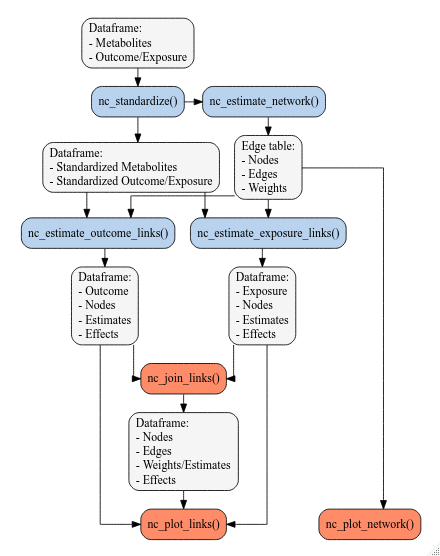
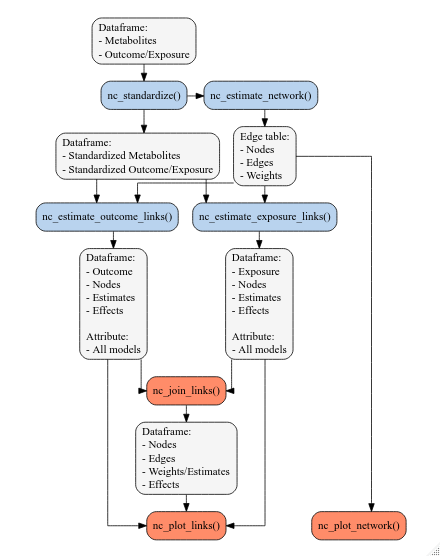
Built site for NetCoupler: 0.0.4.9000@77cd141

Changed region(s): [[0.0295, 0.0306, 0.8568, 0.9784], [0.7091, 0.8867, 0.975, 0.9784], [0.4727, 0.2446, 0.5023, 0.2752]]

diff --git a/articles/NetCoupler.html b/articles/NetCoupler.html
@@ -191,38 +191,21 @@
         model_function <span class="op">=</span> <span class="va">lm</span>
     <span class="op">)</span>
 <span class="va">outcome_estimates</span>
-<span class="co">#&gt; $full_model_list</span>
-<span class="co">#&gt; <span style="color: #949494;"># A tibble: 301 × 9</span></span>
-<span class="co">#&gt;    outcome       index_node model_id term  estimate std_error statistic  p_value</span>
-<span class="co">#&gt;    <span style="color: #949494; font-style: italic;">&lt;chr&gt;</span>         <span style="color: #949494; font-style: italic;">&lt;chr&gt;</span>      <span style="color: #949494; font-style: italic;">&lt;chr&gt;</span>    <span style="color: #949494; font-style: italic;">&lt;chr&gt;</span>    <span style="color: #949494; font-style: italic;">&lt;dbl&gt;</span>     <span style="color: #949494; font-style: italic;">&lt;dbl&gt;</span>     <span style="color: #949494; font-style: italic;">&lt;dbl&gt;</span>    <span style="color: #949494; font-style: italic;">&lt;dbl&gt;</span></span>
-<span class="co">#&gt; <span style="color: #BCBCBC;"> 1</span> outcome_cont… metabolit… 42e63fc… (Int… -<span style="color: #BB0000;">0.018</span><span style="color: #BB0000; text-decoration: underline;">5</span>     0.025<span style="text-decoration: underline;">0</span>    -<span style="color: #BB0000;">0.738</span> 4.61<span style="color: #949494;">e</span><span style="color: #BB0000;">- 1</span></span>
-<span class="co">#&gt; <span style="color: #BCBCBC;"> 2</span> outcome_cont… metabolit… 42e63fc… meta…  0.066<span style="text-decoration: underline;">2</span>     0.025<span style="text-decoration: underline;">8</span>     2.57  1.03<span style="color: #949494;">e</span><span style="color: #BB0000;">- 2</span></span>
-<span class="co">#&gt; <span style="color: #BCBCBC;"> 3</span> outcome_cont… metabolit… 42e63fc… meta… -<span style="color: #BB0000;">0.049</span><span style="color: #BB0000; text-decoration: underline;">4</span>     0.025<span style="text-decoration: underline;">8</span>    -<span style="color: #BB0000;">1.92</span>  5.54<span style="color: #949494;">e</span><span style="color: #BB0000;">- 2</span></span>
-<span class="co">#&gt; <span style="color: #BCBCBC;"> 4</span> outcome_cont… metabolit… 84366fe… (Int… -<span style="color: #BB0000;">0.018</span><span style="color: #BB0000; text-decoration: underline;">5</span>     0.023<span style="text-decoration: underline;">8</span>    -<span style="color: #BB0000;">0.777</span> 4.37<span style="color: #949494;">e</span><span style="color: #BB0000;">- 1</span></span>
-<span class="co">#&gt; <span style="color: #BCBCBC;"> 5</span> outcome_cont… metabolit… 84366fe… meta… -<span style="color: #BB0000;">0.019</span><span style="color: #BB0000; text-decoration: underline;">8</span>     0.024<span style="text-decoration: underline;">3</span>    -<span style="color: #BB0000;">0.814</span> 4.16<span style="color: #949494;">e</span><span style="color: #BB0000;">- 1</span></span>
-<span class="co">#&gt; <span style="color: #BCBCBC;"> 6</span> outcome_cont… metabolit… 84366fe… meta…  0.364      0.024<span style="text-decoration: underline;">3</span>    15.0   3.50<span style="color: #949494;">e</span><span style="color: #BB0000;">-48</span></span>
-<span class="co">#&gt; <span style="color: #BCBCBC;"> 7</span> outcome_cont… metabolit… 9bc6200… (Int… -<span style="color: #BB0000;">0.018</span><span style="color: #BB0000; text-decoration: underline;">5</span>     0.023<span style="text-decoration: underline;">7</span>    -<span style="color: #BB0000;">0.778</span> 4.37<span style="color: #949494;">e</span><span style="color: #BB0000;">- 1</span></span>
-<span class="co">#&gt; <span style="color: #BCBCBC;"> 8</span> outcome_cont… metabolit… 9bc6200… meta… -<span style="color: #BB0000;">0.005</span><span style="color: #BB0000; text-decoration: underline;">62</span>    0.024<span style="text-decoration: underline;">9</span>    -<span style="color: #BB0000;">0.226</span> 8.21<span style="color: #949494;">e</span><span style="color: #BB0000;">- 1</span></span>
-<span class="co">#&gt; <span style="color: #BCBCBC;"> 9</span> outcome_cont… metabolit… 9bc6200… meta…  0.365      0.024<span style="text-decoration: underline;">2</span>    15.1   1.10<span style="color: #949494;">e</span><span style="color: #BB0000;">-48</span></span>
-<span class="co">#&gt; <span style="color: #BCBCBC;">10</span> outcome_cont… metabolit… 9bc6200… meta… -<span style="color: #BB0000;">0.060</span><span style="color: #BB0000; text-decoration: underline;">4</span>     0.024<span style="text-decoration: underline;">5</span>    -<span style="color: #BB0000;">2.47</span>  1.37<span style="color: #949494;">e</span><span style="color: #BB0000;">- 2</span></span>
-<span class="co">#&gt; <span style="color: #949494;"># … with 291 more rows, and 1 more variable: adjusted_vars &lt;chr&gt;</span></span>
-<span class="co">#&gt; </span>
-<span class="co">#&gt; $classified_effects</span>
-<span class="co">#&gt; <span style="color: #949494;"># A tibble: 12 × 7</span></span>
-<span class="co">#&gt;    outcome            index_node   estimate std_error p_value adj_p_value effect</span>
-<span class="co">#&gt;    <span style="color: #949494; font-style: italic;">&lt;chr&gt;</span>              <span style="color: #949494; font-style: italic;">&lt;chr&gt;</span>           <span style="color: #949494; font-style: italic;">&lt;dbl&gt;</span>     <span style="color: #949494; font-style: italic;">&lt;dbl&gt;</span>   <span style="color: #949494; font-style: italic;">&lt;dbl&gt;</span>       <span style="color: #949494; font-style: italic;">&lt;dbl&gt;</span> <span style="color: #949494; font-style: italic;">&lt;chr&gt;</span> </span>
-<span class="co">#&gt; <span style="color: #BCBCBC;"> 1</span> outcome_continuous metabolite_1  0.054<span style="text-decoration: underline;">3</span>     0.025<span style="text-decoration: underline;">1</span> 3.02<span style="color: #949494;">e</span><span style="color: #BB0000;">-2</span>    0.057<span style="text-decoration: underline;">7</span>   ambig…</span>
-<span class="co">#&gt; <span style="color: #BCBCBC;"> 2</span> outcome_continuous metabolite_…  0.096<span style="text-decoration: underline;">5</span>     0.025<span style="text-decoration: underline;">0</span> 1.17<span style="color: #949494;">e</span><span style="color: #BB0000;">-4</span>    0.000<span style="text-decoration: underline;">296</span> ambig…</span>
-<span class="co">#&gt; <span style="color: #BCBCBC;"> 3</span> outcome_continuous metabolite_… -<span style="color: #BB0000;">0.007</span><span style="color: #BB0000; text-decoration: underline;">64</span>    0.025<span style="text-decoration: underline;">1</span> 7.61<span style="color: #949494;">e</span><span style="color: #BB0000;">-1</span>    0.861    none  </span>
-<span class="co">#&gt; <span style="color: #BCBCBC;"> 4</span> outcome_continuous metabolite_…  0.360      0.023<span style="text-decoration: underline;">8</span> 0   <span style="color: #949494;"> </span>      0        direct</span>
-<span class="co">#&gt; <span style="color: #BCBCBC;"> 5</span> outcome_continuous metabolite_2 -<span style="color: #BB0000;">0.033</span><span style="color: #BB0000; text-decoration: underline;">5</span>     0.025<span style="text-decoration: underline;">1</span> 1.81<span style="color: #949494;">e</span><span style="color: #BB0000;">-1</span>    0.260    ambig…</span>
-<span class="co">#&gt; <span style="color: #BCBCBC;"> 6</span> outcome_continuous metabolite_3 -<span style="color: #BB0000;">0.144</span>      0.024<span style="text-decoration: underline;">9</span> 0   <span style="color: #949494;"> </span>      0        direct</span>
-<span class="co">#&gt; <span style="color: #BCBCBC;"> 7</span> outcome_continuous metabolite_4  0.024<span style="text-decoration: underline;">4</span>     0.025<span style="text-decoration: underline;">1</span> 3.31<span style="color: #949494;">e</span><span style="color: #BB0000;">-1</span>    0.452    ambig…</span>
-<span class="co">#&gt; <span style="color: #BCBCBC;"> 8</span> outcome_continuous metabolite_5  0.029<span style="text-decoration: underline;">6</span>     0.025<span style="text-decoration: underline;">1</span> 2.38<span style="color: #949494;">e</span><span style="color: #BB0000;">-1</span>    0.330    none  </span>
-<span class="co">#&gt; <span style="color: #BCBCBC;"> 9</span> outcome_continuous metabolite_6  0.056<span style="text-decoration: underline;">0</span>     0.025<span style="text-decoration: underline;">0</span> 2.55<span style="color: #949494;">e</span><span style="color: #BB0000;">-2</span>    0.049<span style="text-decoration: underline;">8</span>   ambig…</span>
-<span class="co">#&gt; <span style="color: #BCBCBC;">10</span> outcome_continuous metabolite_7  0.002<span style="text-decoration: underline;">68</span>    0.025<span style="text-decoration: underline;">1</span> 9.15<span style="color: #949494;">e</span><span style="color: #BB0000;">-1</span>    0.937    none  </span>
-<span class="co">#&gt; <span style="color: #BCBCBC;">11</span> outcome_continuous metabolite_8  0.056<span style="text-decoration: underline;">7</span>     0.025<span style="text-decoration: underline;">0</span> 2.38<span style="color: #949494;">e</span><span style="color: #BB0000;">-2</span>    0.047<span style="text-decoration: underline;">6</span>   ambig…</span>
-<span class="co">#&gt; <span style="color: #BCBCBC;">12</span> outcome_continuous metabolite_9  0.212      0.024<span style="text-decoration: underline;">6</span> 0   <span style="color: #949494;"> </span>      0        direct</span>
+<span class="co">#&gt; <span style="color: #949494;"># A tibble: 12 × 6</span></span>
+<span class="co">#&gt;    outcome            index_node    estimate std_error fdr_p_value effect   </span>
+<span class="co">#&gt;  <span style="color: #BCBCBC;">*</span> <span style="color: #949494; font-style: italic;">&lt;chr&gt;</span>              <span style="color: #949494; font-style: italic;">&lt;chr&gt;</span>            <span style="color: #949494; font-style: italic;">&lt;dbl&gt;</span>     <span style="color: #949494; font-style: italic;">&lt;dbl&gt;</span>       <span style="color: #949494; font-style: italic;">&lt;dbl&gt;</span> <span style="color: #949494; font-style: italic;">&lt;chr&gt;</span>    </span>
+<span class="co">#&gt; <span style="color: #BCBCBC;"> 1</span> outcome_continuous metabolite_1   0.054<span style="text-decoration: underline;">3</span>     0.025<span style="text-decoration: underline;">1</span>    0.057<span style="text-decoration: underline;">7</span>   ambiguous</span>
+<span class="co">#&gt; <span style="color: #BCBCBC;"> 2</span> outcome_continuous metabolite_10  0.096<span style="text-decoration: underline;">5</span>     0.025<span style="text-decoration: underline;">0</span>    0.000<span style="text-decoration: underline;">296</span> ambiguous</span>
+<span class="co">#&gt; <span style="color: #BCBCBC;"> 3</span> outcome_continuous metabolite_11 -<span style="color: #BB0000;">0.007</span><span style="color: #BB0000; text-decoration: underline;">64</span>    0.025<span style="text-decoration: underline;">1</span>    0.861    none     </span>
+<span class="co">#&gt; <span style="color: #BCBCBC;"> 4</span> outcome_continuous metabolite_12  0.360      0.023<span style="text-decoration: underline;">8</span>    0        direct   </span>
+<span class="co">#&gt; <span style="color: #BCBCBC;"> 5</span> outcome_continuous metabolite_2  -<span style="color: #BB0000;">0.033</span><span style="color: #BB0000; text-decoration: underline;">5</span>     0.025<span style="text-decoration: underline;">1</span>    0.260    ambiguous</span>
+<span class="co">#&gt; <span style="color: #BCBCBC;"> 6</span> outcome_continuous metabolite_3  -<span style="color: #BB0000;">0.144</span>      0.024<span style="text-decoration: underline;">9</span>    0        direct   </span>
+<span class="co">#&gt; <span style="color: #BCBCBC;"> 7</span> outcome_continuous metabolite_4   0.024<span style="text-decoration: underline;">4</span>     0.025<span style="text-decoration: underline;">1</span>    0.452    ambiguous</span>
+<span class="co">#&gt; <span style="color: #BCBCBC;"> 8</span> outcome_continuous metabolite_5   0.029<span style="text-decoration: underline;">6</span>     0.025<span style="text-decoration: underline;">1</span>    0.330    none     </span>
+<span class="co">#&gt; <span style="color: #BCBCBC;"> 9</span> outcome_continuous metabolite_6   0.056<span style="text-decoration: underline;">0</span>     0.025<span style="text-decoration: underline;">0</span>    0.049<span style="text-decoration: underline;">8</span>   ambiguous</span>
+<span class="co">#&gt; <span style="color: #BCBCBC;">10</span> outcome_continuous metabolite_7   0.002<span style="text-decoration: underline;">68</span>    0.025<span style="text-decoration: underline;">1</span>    0.937    none     </span>
+<span class="co">#&gt; <span style="color: #BCBCBC;">11</span> outcome_continuous metabolite_8   0.056<span style="text-decoration: underline;">7</span>     0.025<span style="text-decoration: underline;">0</span>    0.047<span style="text-decoration: underline;">6</span>   ambiguous</span>
+<span class="co">#&gt; <span style="color: #BCBCBC;">12</span> outcome_continuous metabolite_9   0.212      0.024<span style="text-decoration: underline;">6</span>    0        direct</span>
 
 <span class="va">exposure_estimates</span> <span class="op">&lt;-</span> <span class="va">standardized_data</span> <span class="op"><a href="../reference/pipe.html">%&gt;%</a></span>
     <span class="fu"><a href="../reference/nc_estimate_links.html">nc_estimate_exposure_links</a></span><span class="op">(</span>
@@ -231,38 +214,21 @@
         model_function <span class="op">=</span> <span class="va">lm</span>
     <span class="op">)</span>
 <span class="va">exposure_estimates</span>
-<span class="co">#&gt; $full_model_list</span>
-<span class="co">#&gt; <span style="color: #949494;"># A tibble: 301 × 9</span></span>
-<span class="co">#&gt;    exposure index_node   model_id    term  estimate std_error statistic  p_value</span>
-<span class="co">#&gt;    <span style="color: #949494; font-style: italic;">&lt;chr&gt;</span>    <span style="color: #949494; font-style: italic;">&lt;chr&gt;</span>        <span style="color: #949494; font-style: italic;">&lt;chr&gt;</span>       <span style="color: #949494; font-style: italic;">&lt;chr&gt;</span>    <span style="color: #949494; font-style: italic;">&lt;dbl&gt;</span>     <span style="color: #949494; font-style: italic;">&lt;dbl&gt;</span>     <span style="color: #949494; font-style: italic;">&lt;dbl&gt;</span>    <span style="color: #949494; font-style: italic;">&lt;dbl&gt;</span></span>
-<span class="co">#&gt; <span style="color: #BCBCBC;"> 1</span> exposure metabolite_1 d54d16e09e… (Int… 0.000<span style="text-decoration: underline;">360</span>    0.021<span style="text-decoration: underline;">4</span>    0.016<span style="text-decoration: underline;">8</span> 9.87<span style="color: #949494;">e</span><span style="color: #BB0000;">- 1</span></span>
-<span class="co">#&gt; <span style="color: #BCBCBC;"> 2</span> exposure metabolite_1 d54d16e09e… expo… 0.180       0.021<span style="text-decoration: underline;">8</span>    8.26   2.71<span style="color: #949494;">e</span><span style="color: #BB0000;">-16</span></span>
-<span class="co">#&gt; <span style="color: #BCBCBC;"> 3</span> exposure metabolite_1 d54d16e09e… meta… 0.242       0.021<span style="text-decoration: underline;">4</span>   11.3    8.56<span style="color: #949494;">e</span><span style="color: #BB0000;">-29</span></span>
-<span class="co">#&gt; <span style="color: #BCBCBC;"> 4</span> exposure metabolite_1 3e7b561192… (Int… 0.000<span style="text-decoration: underline;">358</span>    0.021<span style="text-decoration: underline;">5</span>    0.016<span style="text-decoration: underline;">6</span> 9.87<span style="color: #949494;">e</span><span style="color: #BB0000;">- 1</span></span>
-<span class="co">#&gt; <span style="color: #BCBCBC;"> 5</span> exposure metabolite_1 3e7b561192… expo… 0.179       0.022<span style="text-decoration: underline;">0</span>    8.16   6.07<span style="color: #949494;">e</span><span style="color: #BB0000;">-16</span></span>
-<span class="co">#&gt; <span style="color: #BCBCBC;"> 6</span> exposure metabolite_1 3e7b561192… meta… 0.205       0.021<span style="text-decoration: underline;">6</span>    9.51   5.39<span style="color: #949494;">e</span><span style="color: #BB0000;">-21</span></span>
-<span class="co">#&gt; <span style="color: #BCBCBC;"> 7</span> exposure metabolite_1 275c2363be… (Int… 0.000<span style="text-decoration: underline;">362</span>    0.020<span style="text-decoration: underline;">9</span>    0.017<span style="text-decoration: underline;">3</span> 9.86<span style="color: #949494;">e</span><span style="color: #BB0000;">- 1</span></span>
-<span class="co">#&gt; <span style="color: #BCBCBC;"> 8</span> exposure metabolite_1 275c2363be… expo… 0.181       0.021<span style="text-decoration: underline;">4</span>    8.47   4.79<span style="color: #949494;">e</span><span style="color: #BB0000;">-17</span></span>
-<span class="co">#&gt; <span style="color: #BCBCBC;"> 9</span> exposure metabolite_1 275c2363be… meta… 0.187       0.021<span style="text-decoration: underline;">0</span>    8.92   1.06<span style="color: #949494;">e</span><span style="color: #BB0000;">-18</span></span>
-<span class="co">#&gt; <span style="color: #BCBCBC;">10</span> exposure metabolite_1 275c2363be… meta… 0.227       0.021<span style="text-decoration: underline;">0</span>   10.8    1.66<span style="color: #949494;">e</span><span style="color: #BB0000;">-26</span></span>
-<span class="co">#&gt; <span style="color: #949494;"># … with 291 more rows, and 1 more variable: adjusted_vars &lt;chr&gt;</span></span>
-<span class="co">#&gt; </span>
-<span class="co">#&gt; $classified_effects</span>
-<span class="co">#&gt; <span style="color: #949494;"># A tibble: 12 × 7</span></span>
-<span class="co">#&gt;    exposure index_node    estimate std_error  p_value adj_p_value effect   </span>
-<span class="co">#&gt;    <span style="color: #949494; font-style: italic;">&lt;chr&gt;</span>    <span style="color: #949494; font-style: italic;">&lt;chr&gt;</span>            <span style="color: #949494; font-style: italic;">&lt;dbl&gt;</span>     <span style="color: #949494; font-style: italic;">&lt;dbl&gt;</span>    <span style="color: #949494; font-style: italic;">&lt;dbl&gt;</span>       <span style="color: #949494; font-style: italic;">&lt;dbl&gt;</span> <span style="color: #949494; font-style: italic;">&lt;chr&gt;</span>    </span>
-<span class="co">#&gt; <span style="color: #BCBCBC;"> 1</span> exposure metabolite_1   0.178      0.022<span style="text-decoration: underline;">5</span> 0          0         direct   </span>
-<span class="co">#&gt; <span style="color: #BCBCBC;"> 2</span> exposure metabolite_10  0.298      0.021<span style="text-decoration: underline;">8</span> 0          0         direct   </span>
-<span class="co">#&gt; <span style="color: #BCBCBC;"> 3</span> exposure metabolite_11 -<span style="color: #BB0000;">0.022</span><span style="color: #BB0000; text-decoration: underline;">6</span>     0.022<span style="text-decoration: underline;">8</span> 0.322      0.512     ambiguous</span>
-<span class="co">#&gt; <span style="color: #BCBCBC;"> 4</span> exposure metabolite_12 -<span style="color: #BB0000;">0.006</span><span style="color: #BB0000; text-decoration: underline;">41</span>    0.022<span style="text-decoration: underline;">8</span> 0.779      0.859     none     </span>
-<span class="co">#&gt; <span style="color: #BCBCBC;"> 5</span> exposure metabolite_2  -<span style="color: #BB0000;">0.007</span><span style="color: #BB0000; text-decoration: underline;">88</span>    0.022<span style="text-decoration: underline;">8</span> 0.730      0.826     ambiguous</span>
-<span class="co">#&gt; <span style="color: #BCBCBC;"> 6</span> exposure metabolite_3   0.024<span style="text-decoration: underline;">1</span>     0.022<span style="text-decoration: underline;">8</span> 0.290      0.473     none     </span>
-<span class="co">#&gt; <span style="color: #BCBCBC;"> 7</span> exposure metabolite_4  -<span style="color: #BB0000;">0.008</span><span style="color: #BB0000; text-decoration: underline;">54</span>    0.022<span style="text-decoration: underline;">8</span> 0.708      0.826     none     </span>
-<span class="co">#&gt; <span style="color: #BCBCBC;"> 8</span> exposure metabolite_5   0.019<span style="text-decoration: underline;">1</span>     0.022<span style="text-decoration: underline;">8</span> 0.402      0.576     none     </span>
-<span class="co">#&gt; <span style="color: #BCBCBC;"> 9</span> exposure metabolite_6  -<span style="color: #BB0000;">0.015</span><span style="color: #BB0000; text-decoration: underline;">1</span>     0.022<span style="text-decoration: underline;">8</span> 0.507      0.683     none     </span>
-<span class="co">#&gt; <span style="color: #BCBCBC;">10</span> exposure metabolite_7  -<span style="color: #BB0000;">0.097</span><span style="color: #BB0000; text-decoration: underline;">6</span>     0.022<span style="text-decoration: underline;">7</span> 0.000<span style="text-decoration: underline;">018</span>   0.000<span style="text-decoration: underline;">053</span>4 ambiguous</span>
-<span class="co">#&gt; <span style="color: #BCBCBC;">11</span> exposure metabolite_8  -<span style="color: #BB0000;">0.343</span>      0.021<span style="text-decoration: underline;">5</span> 0          0         direct   </span>
-<span class="co">#&gt; <span style="color: #BCBCBC;">12</span> exposure metabolite_9   0.102      0.022<span style="text-decoration: underline;">7</span> 0.000<span style="text-decoration: underline;">007</span>   0.000<span style="text-decoration: underline;">024</span>1 ambiguous</span></code></pre></div>
+<span class="co">#&gt; <span style="color: #949494;"># A tibble: 12 × 6</span></span>
+<span class="co">#&gt;    exposure index_node    estimate std_error fdr_p_value effect   </span>
+<span class="co">#&gt;  <span style="color: #BCBCBC;">*</span> <span style="color: #949494; font-style: italic;">&lt;chr&gt;</span>    <span style="color: #949494; font-style: italic;">&lt;chr&gt;</span>            <span style="color: #949494; font-style: italic;">&lt;dbl&gt;</span>     <span style="color: #949494; font-style: italic;">&lt;dbl&gt;</span>       <span style="color: #949494; font-style: italic;">&lt;dbl&gt;</span> <span style="color: #949494; font-style: italic;">&lt;chr&gt;</span>    </span>
+<span class="co">#&gt; <span style="color: #BCBCBC;"> 1</span> exposure metabolite_1   0.178      0.022<span style="text-decoration: underline;">5</span>   0         direct   </span>
+<span class="co">#&gt; <span style="color: #BCBCBC;"> 2</span> exposure metabolite_10  0.298      0.021<span style="text-decoration: underline;">8</span>   0         direct   </span>
+<span class="co">#&gt; <span style="color: #BCBCBC;"> 3</span> exposure metabolite_11 -<span style="color: #BB0000;">0.022</span><span style="color: #BB0000; text-decoration: underline;">6</span>     0.022<span style="text-decoration: underline;">8</span>   0.512     ambiguous</span>
+<span class="co">#&gt; <span style="color: #BCBCBC;"> 4</span> exposure metabolite_12 -<span style="color: #BB0000;">0.006</span><span style="color: #BB0000; text-decoration: underline;">41</span>    0.022<span style="text-decoration: underline;">8</span>   0.859     none     </span>
+<span class="co">#&gt; <span style="color: #BCBCBC;"> 5</span> exposure metabolite_2  -<span style="color: #BB0000;">0.007</span><span style="color: #BB0000; text-decoration: underline;">88</span>    0.022<span style="text-decoration: underline;">8</span>   0.826     ambiguous</span>
+<span class="co">#&gt; <span style="color: #BCBCBC;"> 6</span> exposure metabolite_3   0.024<span style="text-decoration: underline;">1</span>     0.022<span style="text-decoration: underline;">8</span>   0.473     none     </span>
+<span class="co">#&gt; <span style="color: #BCBCBC;"> 7</span> exposure metabolite_4  -<span style="color: #BB0000;">0.008</span><span style="color: #BB0000; text-decoration: underline;">54</span>    0.022<span style="text-decoration: underline;">8</span>   0.826     none     </span>
+<span class="co">#&gt; <span style="color: #BCBCBC;"> 8</span> exposure metabolite_5   0.019<span style="text-decoration: underline;">1</span>     0.022<span style="text-decoration: underline;">8</span>   0.576     none     </span>
+<span class="co">#&gt; <span style="color: #BCBCBC;"> 9</span> exposure metabolite_6  -<span style="color: #BB0000;">0.015</span><span style="color: #BB0000; text-decoration: underline;">1</span>     0.022<span style="text-decoration: underline;">8</span>   0.683     none     </span>
+<span class="co">#&gt; <span style="color: #BCBCBC;">10</span> exposure metabolite_7  -<span style="color: #BB0000;">0.097</span><span style="color: #BB0000; text-decoration: underline;">6</span>     0.022<span style="text-decoration: underline;">7</span>   0.000<span style="text-decoration: underline;">053</span>4 ambiguous</span>
+<span class="co">#&gt; <span style="color: #BCBCBC;">11</span> exposure metabolite_8  -<span style="color: #BB0000;">0.343</span>      0.021<span style="text-decoration: underline;">5</span>   0         direct   </span>
+<span class="co">#&gt; <span style="color: #BCBCBC;">12</span> exposure metabolite_9   0.102      0.022<span style="text-decoration: underline;">7</span>   0.000<span style="text-decoration: underline;">024</span>1 ambiguous</span></code></pre></div>
 <p>If you want to adjust for confounders and have already used <code>regressed_on</code> in the <code><a href="../reference/nc_standardize.html">nc_standardize()</a></code> function, add confounders to <code><a href="../reference/nc_estimate_links.html">nc_estimate_outcome_links()</a></code> or <code><a href="../reference/nc_estimate_links.html">nc_estimate_exposure_links()</a></code> with the <code>adjustment_vars</code> argument:</p>
 <div class="sourceCode" id="cb6"><pre class="downlit sourceCode r">
 <code class="sourceCode R"><span class="va">outcome_estimates</span> <span class="op">&lt;-</span> <span class="va">standardized_data</span> <span class="op"><a href="../reference/pipe.html">%&gt;%</a></span>

diff --git a/reference/nc_estimate_links.html b/reference/nc_estimate_links.html
@@ -87,7 +87,8 @@ and a network.</h1>
   <span class="va">model_function</span>,
   model_arg_list <span class="op">=</span> <span class="cn">NULL</span>,
   exponentiate <span class="op">=</span> <span class="cn">FALSE</span>,
-  implementation <span class="op">=</span> <span class="fu"><a href="https://rdrr.io/r/base/c.html" class="external-link">c</a></span><span class="op">(</span><span class="st">"updated"</span>, <span class="st">"original"</span><span class="op">)</span>
+  classify_option_list <span class="op">=</span> <span class="fu"><a href="https://rdrr.io/r/base/list.html" class="external-link">list</a></span><span class="op">(</span>single_metabolite_threshold <span class="op">=</span> <span class="fl">0.05</span>, network_threshold <span class="op">=</span>
+    <span class="fl">0.1</span><span class="op">)</span>
 <span class="op">)</span>
 
 <span class="fu">nc_estimate_outcome_links</span><span class="op">(</span>
@@ -98,7 +99,8 @@ and a network.</h1>
   <span class="va">model_function</span>,
   model_arg_list <span class="op">=</span> <span class="cn">NULL</span>,
   exponentiate <span class="op">=</span> <span class="cn">FALSE</span>,
-  implementation <span class="op">=</span> <span class="fu"><a href="https://rdrr.io/r/base/c.html" class="external-link">c</a></span><span class="op">(</span><span class="st">"updated"</span>, <span class="st">"original"</span><span class="op">)</span>
+  classify_option_list <span class="op">=</span> <span class="fu"><a href="https://rdrr.io/r/base/list.html" class="external-link">list</a></span><span class="op">(</span>single_metabolite_threshold <span class="op">=</span> <span class="fl">0.05</span>, network_threshold <span class="op">=</span>
+    <span class="fl">0.1</span><span class="op">)</span>
 <span class="op">)</span></code></pre></div>
     </div>
 
@@ -117,7 +119,8 @@ to an edge table using <code><a href="as_edge_tbl.html">as_edge_tbl()</a></code>
 <dt>model_function</dt>
 <dd><p>A function for the model to use (e.g. <code><a href="https://rdrr.io/r/stats/lm.html" class="external-link">stats::lm()</a></code>,
 <code><a href="https://rdrr.io/r/stats/glm.html" class="external-link">stats::glm()</a></code>, survival::coxph()). Can be any model as long as the
-function has the arguments <code>formula</code> and <code>data</code>.</p></dd>
+function has the arguments <code>formula</code> and <code>data</code>. Type in the model function
+as a bare object (without <code>()</code>, for instance as <code>lm</code>).</p></dd>
 <dt>model_arg_list</dt>
 <dd><p>Optional. A list containing the named arguments that
 will be passed to the model function. A simple example would be
@@ -127,22 +130,42 @@ usage.</p></dd>
 <dt>exponentiate</dt>
 <dd><p>Logical. Whether to exponentiate the log estimates, as
 computed with e.g. logistic regression models.</p></dd>
-<dt>external_var</dt>
-<dd><p>Argument for internal function. The variable that links
-to the network variables ("external" to the network).</p></dd>
-<dt>external_side</dt>
-<dd><p>Argument for internal function. Character vector.
-Either "exposure" or "outcome", to indicate which side the external
-variable is on relative to the network.</p><ul><li><p>Exposure indicating the implied directionality is from the external
-variable to the network variable.</p></li>
-<li><p>Outcome indicating the implied directionality is from the network variable
-to the external variable.</p></li>
+<dt>classify_option_list</dt>
+<dd><p>Classification options for direct, ambigious, or none
+effects. Options currently are:</p><ul><li><p><code>single_metabolite_threshold</code>: Default of 0.05. P-values from models with
+only the index metabolite (no neighbour adjustment) are classified as effects if
+below this threshold.</p></li>
+<li><p><code>network_threshold</code>: Default of 0.1. P-values from any models that have
+direct neighbour adjustments are classified as effects if below this threshold.
+This is assumed as a one-sided p-value threshold.</p></li>
 </ul></dd>
 </dl></div>
     <div id="value">
     <h2>Value</h2>
     <p>Outputs a <a href="https://tibble.tidyverse.org/reference/tibble-package.html" class="external-link">tibble</a> that contains the model
-estimates from either the exposure or outcome side of the network.</p>
+estimates from either the exposure or outcome side of the network as well
+as the effect classification. Each row represents the "no neighbour node
+adjusted" model and has the results for the outcome/exposure to index node
+pathway.
+Columns for the outcome are:</p><ul><li><p><code>outcome</code> or <code>exposure</code>: The name of the variable used as the external variable.</p></li>
+<li><p><code>index_node</code>: The name of the metabolite used as the index node from the network.
+In combination with the outcome/exposure variable, they represent the individual
+model used for the classification.</p></li>
+<li><p><code>estimate</code>: The estimate from the outcome/exposure and index node model.</p></li>
+<li><p><code>std_error</code>: The standard error from the outcome/exposure and index node model.</p></li>
+<li><p><code>fdr_p_value</code>: The False Discovery Rate-adjusted p-value from the
+outcome/exposure and index node model.</p></li>
+<li><p><code>effect</code>: The NetCoupler classified effect between the index node and the
+outcome/exposure. Effects are classified as "direct" (there is a probable link
+based on the given thresholds), "ambigious" (there is a potential link but
+not all thresholds were passed), and "none" (no potential link seen).</p></li>
+</ul><p>The tibble output also has an attribute that contains all the models
+generated <em>before</em> classification. Access it with <code>attr(output, "all_models_df")</code>.</p>
+    </div>
+    <div id="see-also">
+    <h2>See also</h2>
+    <div class="dont-index"><p><code><a href="../articles/examples.html">vignette("examples")</a></code> article has more
+details on how to use NetCoupler with different models.</p></div>
     </div>
 
     <div id="ref-examples">
@@ -159,12 +182,16 @@ estimates from either the exposure or outcome side of the network.</p>
 <span class="r-in">    <span class="fu"><a href="nc_estimate_network.html">nc_estimate_network</a></span><span class="op">(</span><span class="fu"><a href="https://tidyselect.r-lib.org/reference/starts_with.html" class="external-link">starts_with</a></span><span class="op">(</span><span class="st">"metabolite"</span><span class="op">)</span><span class="op">)</span></span>
 <span class="r-in"><span class="va">edge_table</span> <span class="op">&lt;-</span> <span class="fu"><a href="as_edge_tbl.html">as_edge_tbl</a></span><span class="op">(</span><span class="va">metabolite_network</span><span class="op">)</span></span>
 <span class="r-in"></span>
-<span class="r-in"><span class="va">standardized_data</span> <span class="op"><a href="pipe.html">%&gt;%</a></span></span>
+<span class="r-in"><span class="va">results</span> <span class="op">&lt;-</span> <span class="va">standardized_data</span> <span class="op"><a href="pipe.html">%&gt;%</a></span></span>
 <span class="r-in">  <span class="fu">nc_estimate_exposure_links</span><span class="op">(</span></span>
 <span class="r-in">    edge_tbl <span class="op">=</span> <span class="va">edge_table</span>,</span>
 <span class="r-in">    exposure <span class="op">=</span> <span class="st">"exposure"</span>,</span>
 <span class="r-in">    model_function <span class="op">=</span> <span class="va">lm</span></span>
 <span class="r-in">   <span class="op">)</span></span>
+<span class="r-in"><span class="va">results</span></span>
+<span class="r-in"></span>
+<span class="r-in"><span class="co"># Get results of all models used prior to classification</span></span>
+<span class="r-in"><span class="fu"><a href="https://rdrr.io/r/base/attr.html" class="external-link">attr</a></span><span class="op">(</span><span class="va">results</span>, <span class="st">"all_models_df"</span><span class="op">)</span></span>
 <span class="r-in"></span>
 <span class="r-in"><span class="co"># Using a logistic regression</span></span>
 <span class="r-in"><span class="va">standardized_data</span> <span class="op"><a href="pipe.html">%&gt;%</a></span></span>

diff --git a/reference/simulated_data.html b/reference/simulated_data.html
@@ -76,7 +76,8 @@
     <h2>Format</h2>
     <p>The simulated dataset is a <a href="https://tibble.tidyverse.org/reference/tibble-package.html" class="external-link">tibble</a> with the
 following variables:</p><ul><li><p>Two outcome variables (<code>outcome_continuous</code> and <code>outcome_binary</code>) along
-with survival time (<code>outcome_event_time</code>) used for the <code>outcome_binary</code></p></li>
+with survival time (<code>outcome_event_time</code>) that is used for the
+<code>outcome_binary</code> variable</p></li>
 <li><p>A generic <code>exposure</code> variable as continuous</p></li>
 <li><p>12 <code>metabolite_*</code> variables</p></li>
 <li><p>An <code>age</code> variable used as a confounder</p></li>

diff --git a/reference/nc_standardize.html b/reference/nc_standardize.html
@@ -99,6 +99,10 @@ the residuals from a linear regression model.</p></dd>
     <p>Outputs a <a href="https://tibble.tidyverse.org/reference/tibble-package.html" class="external-link">tibble</a> object, with the original metabolic
 variables now standardized.</p>
     </div>
+    <div id="see-also">
+    <h2>See also</h2>
+    <div class="dont-index"><p><a href="nc_estimate_links.html">nc_estimate_links</a> for more detailed examples or the <code><a href="../articles/NetCoupler.html">vignette("NetCoupler")</a></code>.</p></div>
+    </div>
 
     <div id="ref-examples">
     <h2>Examples</h2>

diff --git a/reference/as_edge_tbl.html b/reference/as_edge_tbl.html
@@ -75,7 +75,7 @@
     <div id="arguments">
     <h2>Arguments</h2>
     <dl><dt>network_object</dt>
-<dd><p>Network graph from e.g. <code><a href="nc_estimate_network.html">nc_estimate_network()</a></code>.</p></dd>
+<dd><p>Network graph from <code><a href="nc_estimate_network.html">nc_estimate_network()</a></code>.</p></dd>
 </dl></div>
     <div id="value">
     <h2>Value</h2>
